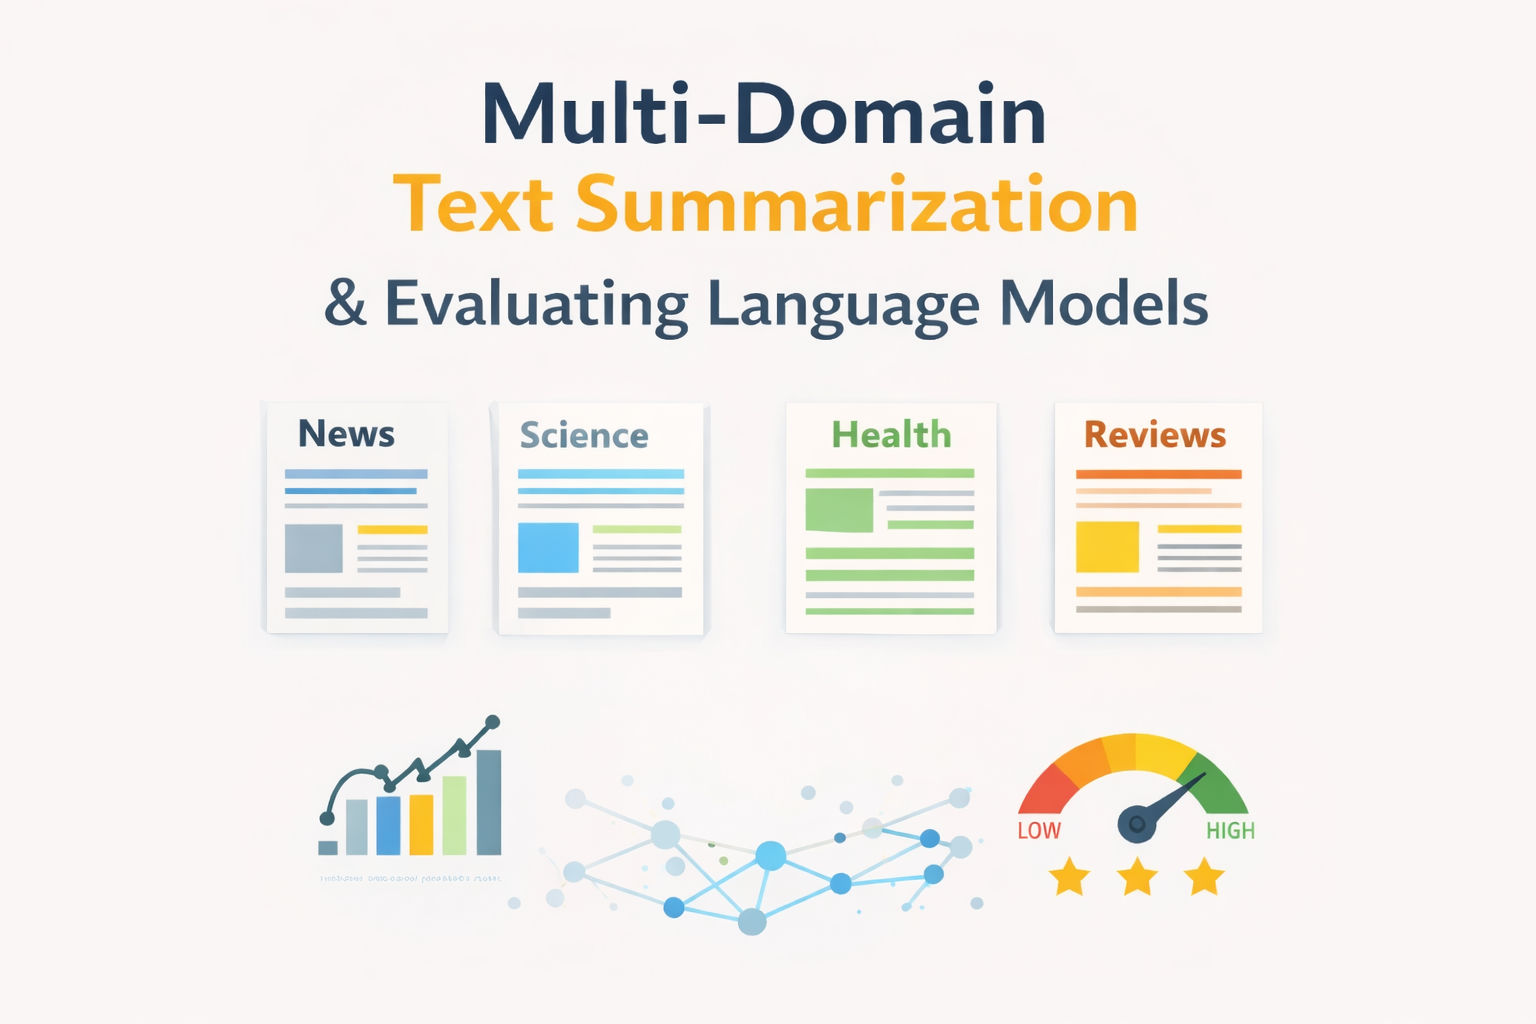
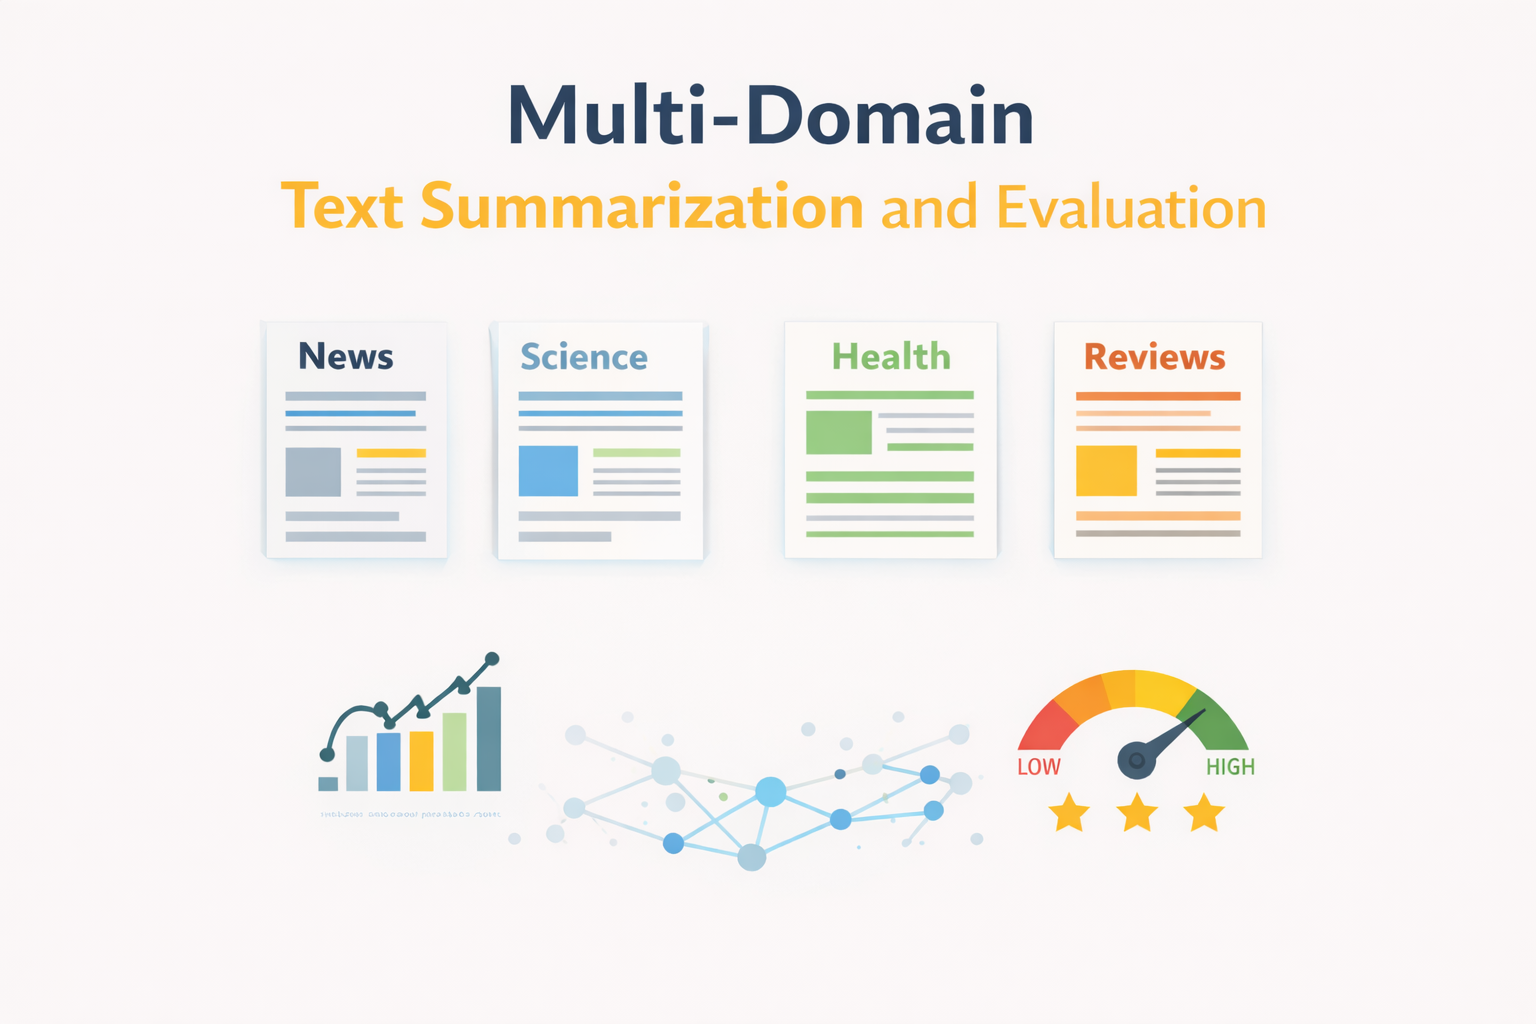
Add projects.

Changed region(s): [[0.1562, 0.0625, 0.8438, 0.9375]]

diff --git a/content/project/data_agent/index.md b/content/project/data_agent/index.md
@@ -1,0 +1,13 @@
+---
+title: Neurosymbolic Data Agents
+date: 2026-01-08
+
+tags:
+  - Neurosymbolic AI
+  - AI for Data
+  - Question Answering
+---
+
+I'm working on building agents that leverage LLMs in conjunction with symbolic representations of analytics and data to answer complex, data-intensive questions. More details coming soon.
+
+<!--more-->
